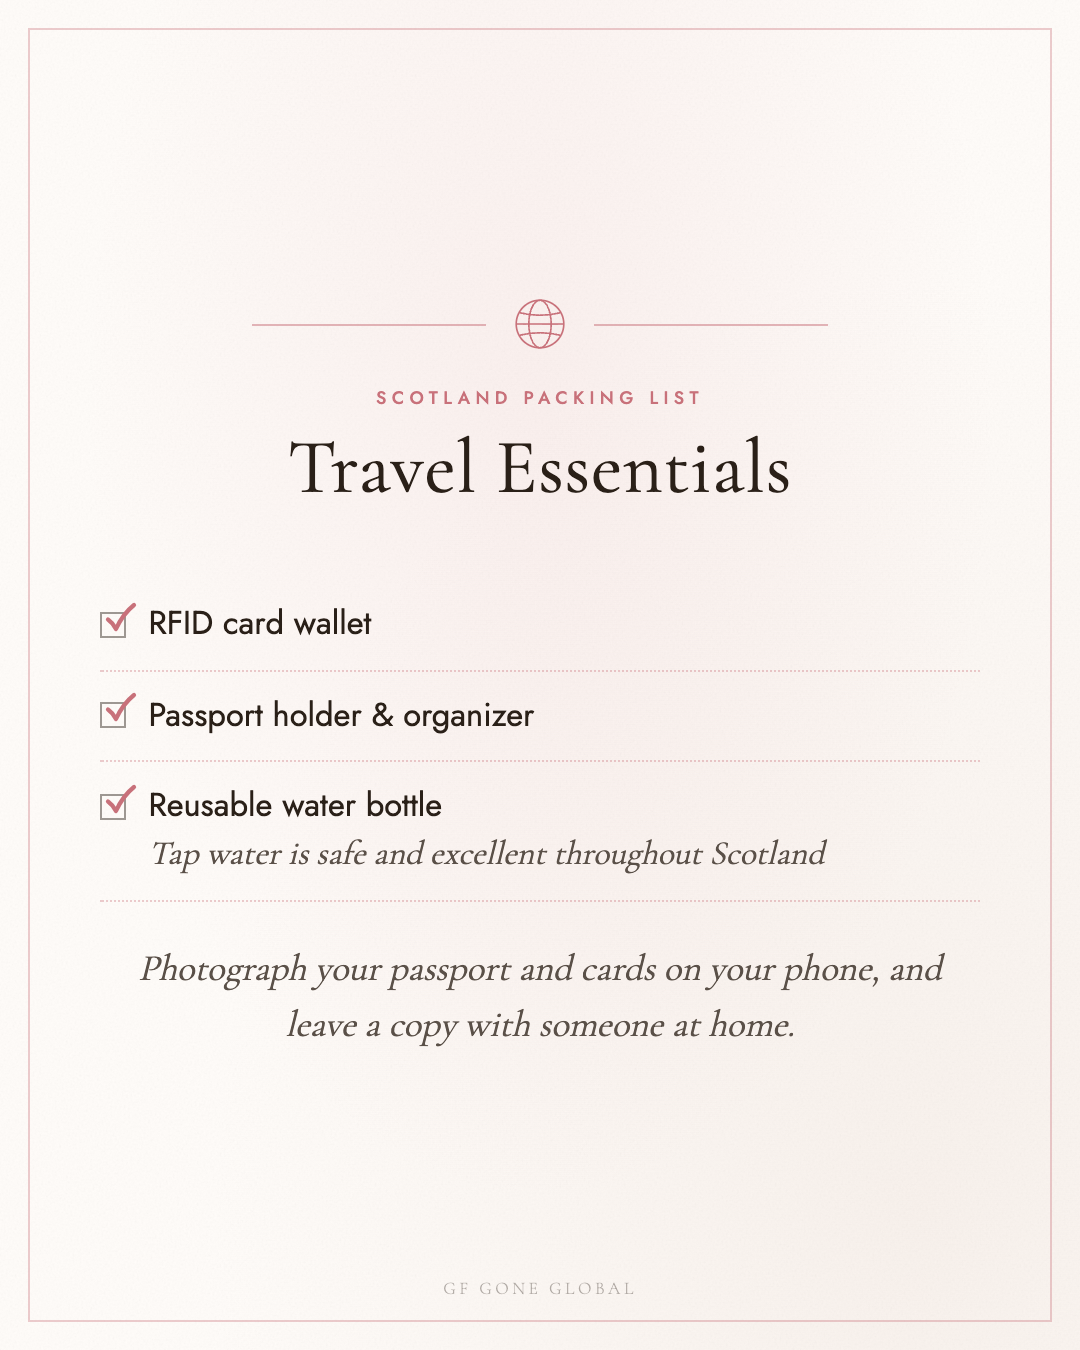
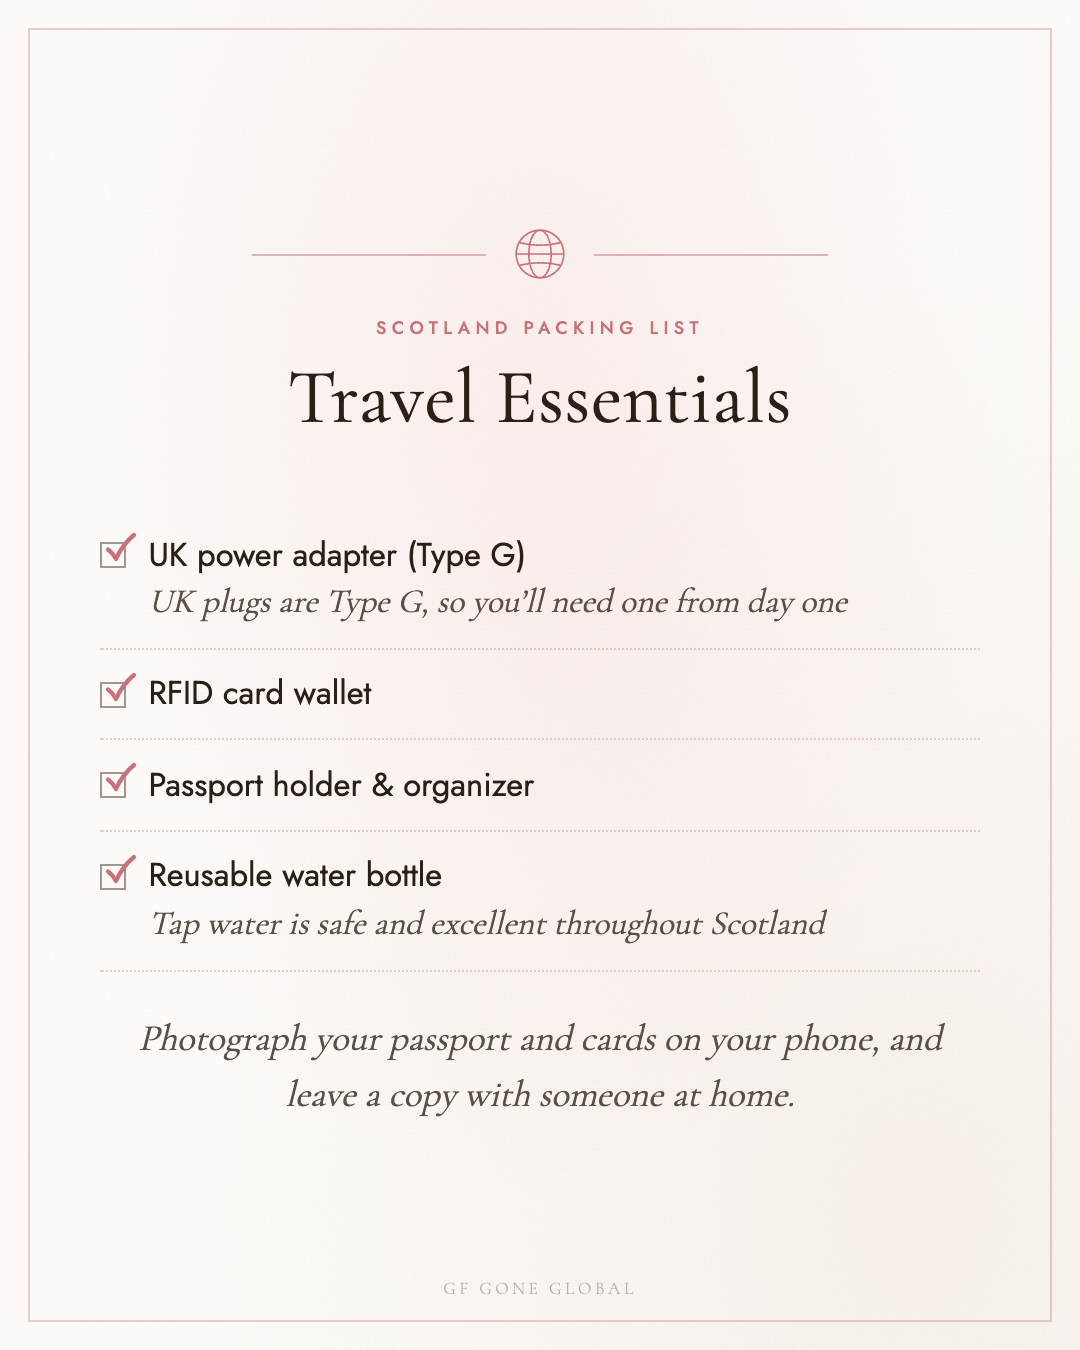
Scotland packing: add UK power adapter; slide 5 no longer overclaims links
Both approved by Kelly from the review. Slide 5 read "shopping links for
everything", but Layers, midge repellent and the umbrella are unlinked;
it now says "with shopping links". The UK Type G adapter (a Scotland-wide
essential on the guide) now leads Travel Essentials and the checklist
pin's Travel group. Review and manifest updated, with alt text to match.

Changed region(s): [[0.0917, 0.4044, 0.8861, 0.7778], [0.275, 0.1556, 0.7333, 0.3733], [0.275, 0.8089, 0.7333, 0.84]]

diff --git a/instagram/handoff/scotland-packing/MANIFEST.md b/instagram/handoff/scotland-packing/MANIFEST.md
@@ -1,6 +1,6 @@
 # Handoff: Scotland Packing List (celiac edition)
 
-**Status: Images complete.** Built to `specs/scotland-packing-assets.md`. Kelly approved the checklist design and every asset here on 2026-10-27. **Deliverable 2 (the celiac-edition pin) is cut on purpose.** Kelly felt four short lines didn't tell anyone anything useful, and the GF snacks pin is the more informative celiac pin. **Before posting, review `REVIEW.md`:** Kelly asked Moose and Claude to review this set for gaps. It has one must-fix (slide 5 overclaims "shopping links for everything"), open questions and paste-ready alt text. This carousel has no caption yet. Moose writes it and Kelly approves it before anything posts.
+**Status: Images complete.** Built to `specs/scotland-packing-assets.md`. Kelly approved the checklist design and every asset here on 2026-10-27. **Deliverable 2 (the celiac-edition pin) is cut on purpose.** Kelly felt four short lines didn't tell anyone anything useful, and the GF snacks pin is the more informative celiac pin. **Before posting, review `REVIEW.md`:** Kelly asked Moose and Claude to review this set for gaps. Both of Claude's fixes are already applied (slide 5 wording, UK adapter added). It also has open questions and paste-ready alt text. This carousel has no caption yet. Moose writes it and Kelly approves it before anything posts.
 
 ## Instagram carousel (4:5, 1080×1350), in `instagram/exports/`
 
@@ -9,8 +9,8 @@
 | 1 | Cover | `gfgoneglobal-scotland-packing-01-cover.png` | 1.9M | — | An Corran Beach, Skye (Kelly's photo, IMG_9301). "Celiac Edition" label + "What to Pack for Scotland". 4:5 only. |
 | 2 | GF Snacks & Essentials | `gfgoneglobal-scotland-packing-02-snacks.png` | 1.3M | 1.3M | Moose's 8 items, plus an intro line adapted from the Scotland page. Also exported at 2:3 for Pinterest. |
 | 3 | Clothing & Weather | `gfgoneglobal-scotland-packing-03-clothing.png` | 1.3M | 1.4M | From the Scotland page's weather and hiking items, waterproofs first, with the page's own wording as notes. Also at 2:3. |
-| 4 | Travel Essentials | `gfgoneglobal-scotland-packing-04-travel.png` | 1.3M | 1.3M | Moose's 3 items, plus the documents tip from the page. Also at 2:3. |
-| 5 | Full list in the guide | `gfgoneglobal-scotland-packing-05-cta.png` | 1.3M | — | "The full list — with shopping links for everything — is in the Scotland guide" + gfgoneglobal.com/countries/scotland. 4:5 only. |
+| 4 | Travel Essentials | `gfgoneglobal-scotland-packing-04-travel.png` | 1.3M | 1.3M | Moose's 3 items, plus the UK power adapter (added 2026-10-27, Kelly approved) and the documents tip from the page. Also at 2:3. |
+| 5 | Full list in the guide | `gfgoneglobal-scotland-packing-05-cta.png` | 1.3M | — | "The full list — with shopping links — is in the Scotland guide" (shortened from the spec's "for everything", which overclaimed) + gfgoneglobal.com/countries/scotland. 4:5 only. |
 | 6 | Scotland end card | `gfgoneglobal-scotland-end-card.png` | 493K | — | Existing shared country end card (`gfgoneglobal-scotland-end-card.png`), same file as Portree/Glasgow/Fort William. Not re-rendered. |
 
 ## Pinterest pins (2:3, 1000×1500), in `instagram/exports/pinterest/`
@@ -25,5 +25,5 @@
 
 - **The "coeliac" line** was written for the cut celiac pin. It still lives on the Scotland page's "Is Scotland safe for celiacs?" FAQ, added 2026-10-25.
 - **New card types:** `checklist` and `cta` (cream "packing slip" design matching the cream text-restaurant cards), both in `instagram/scripts/lib/templates.js`. `render.js` gained a per-card `ratios` option, so pins render only at 2:3 and the cover and CTA only at 4:5.
-- **Items not included:** the UK power adapter isn't on any card, because Moose's travel list didn't include it. Compact umbrella and midge repellent are in Clothing & Weather because the Scotland page lists them with the rain gear.
+- **Items not included:** the UK power adapter was added to slide 4 and the checklist pin after review. Compact umbrella and midge repellent are in Clothing & Weather because the Scotland page lists them with the rain gear.
 - **Regenerate:** `node instagram/scripts/render.js scotland-packing`. The spec is `instagram/carousels/scotland-packing.json`.

diff --git a/instagram/handoff/scotland-packing/REVIEW.md b/instagram/handoff/scotland-packing/REVIEW.md
@@ -8,11 +8,11 @@ Assets and filenames are in `MANIFEST.md`. The celiac-edition pin is cut on purp
 
 ### Must fix before posting
 
-1. **Slide 5 overclaims.** Its line "The full list — with shopping links for everything — is in the Scotland guide" (copy from the spec) isn't true. On the Scotland page, "Layers, layers, layers", "Midge repellent" and the compact umbrella have no shop link; `PACKING_LINKS_NEEDED.md` says midge repellent stays unlinked by Kelly's choice. Suggested fix: **"The full list — with shopping links — is in the Scotland guide."** One-word change; I'll re-render as soon as Kelly or you confirm the wording.
+1. ~~**Slide 5 overclaims.**~~ **FIXED 2026-10-27 (Kelly approved).** "…with shopping links for everything…" wasn't true: Layers, midge repellent and the umbrella are unlinked on the Scotland page. It now reads **"The full list — with shopping links — is in the Scotland guide."** Re-rendered.
 
 ### Worth considering (Kelly's call)
 
-2. **The UK power adapter (Type G) is missing.** The Scotland page lists it under Scotland-Wide Essentials, and every non-UK visitor needs one. It would fit on slide 4 (Travel Essentials, which only has 3 items) and the checklist pin. It wasn't in the spec's Group 3, so I left it out.
+2. ~~**The UK power adapter (Type G) is missing.**~~ **ADDED 2026-10-27 (Kelly approved).** It's now the first item on slide 4 (both ratios), with the page's own reason ("UK plugs are Type G, so you'll need one from day one"), and in the checklist pin's Travel group, which is now two columns.
 3. **Hiking boots and midge repellent read as universal.** On the page, both are optional and sit under "Hiking & Outdoor Essentials" ("skip this section if you're not planning to hike"). The slide notes (Ben Nevis, the Quiraing, the Fairy Pools; May–September) give the context, so probably fine. Mention hiking in the caption if you want to be explicit.
 4. **Other items on the page but not in the set:** portable charger and multi-device cable, travel medicine (Advil, Benadryl, Dramamine), packing cubes and flight essentials. The spec scoped the set to three groups, so I'd leave them for the guide. Noting them so it's a deliberate choice.
 
@@ -36,12 +36,11 @@ Assets and filenames are in `MANIFEST.md`. The celiac-edition pin is cut on purp
 | 01 cover | Mossy green rocks and tide pools below dark basalt cliffs at An Corran Beach on the Isle of Skye, with the title "What to Pack for Scotland, Celiac Edition." |
 | 02 snacks | Checklist titled "GF Snacks & Essentials": KIND protein bars, Simple Mills cheddar crackers, tamari packets, peanut butter packets, instant GF noodles, GF mac and cheese, electrolytes, nuts and crunchy snacks. |
 | 03 clothing | Checklist titled "Clothing & Weather": packable rain jacket, compact umbrella, layers (t-shirt and light fleece), comfortable walking shoes, waterproof hiking boots, midge repellent, each with a short note on why. |
-| 04 travel | Checklist titled "Travel Essentials": RFID card wallet, passport holder and organizer, reusable water bottle, plus a tip to photograph your passport and cards and leave a copy with someone at home. |
+| 04 travel | Checklist titled "Travel Essentials": UK power adapter (Type G), RFID card wallet, passport holder and organizer, reusable water bottle, plus a tip to photograph your passport and cards and leave a copy with someone at home. |
 | 05 CTA | Text card: the full packing list, with shopping links, is in the Scotland guide at gfgoneglobal.com/countries/scotland. |
 | 06 end card | Map of Scotland marking the cities in the GF Gone Global guide, with "Thanks for following along." |
-| Checklist pin | One-page checklist "What to Pack for Scotland" in three groups: GF snacks and essentials, clothing and weather, and travel essentials. |
+| Checklist pin | One-page checklist "What to Pack for Scotland" in three groups: GF snacks and essentials, clothing and weather, and travel essentials, including a UK power adapter. |
 
-(If slide 5's wording changes, update its alt text to match.)
 
 ## Moose's review
 
